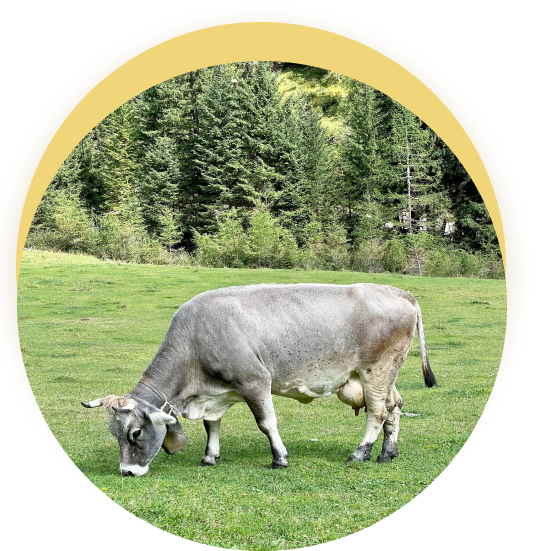
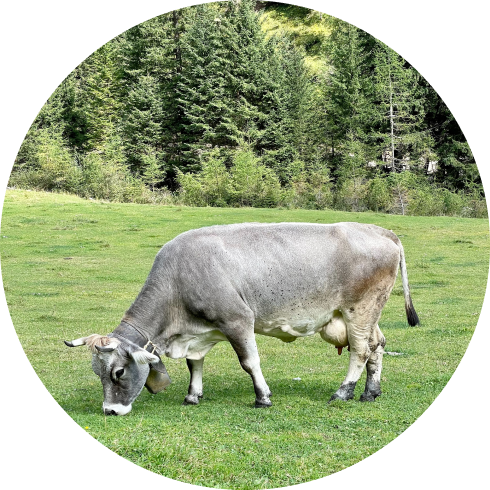
add crow png

diff --git a/src/sass/components/_about.scss b/src/sass/components/_about.scss
@@ -59,27 +59,54 @@
   }
 }
 
-.about__image {
-  display: block;
-  width: 280px;
-  height: 300px;
+.about__description-image {
+  position: relative;
   margin: 0 auto;
-  margin-bottom: 40px;
-  background-image: url(../images/about/img_mob@279.png);
-  background-size: contain;
-  background-repeat: no-repeat;
+  display: block;
+  width: 279px;
+  height: 278px;
+  background: linear-gradient(
+      0deg,
+      rgba(248, 210, 78, 0.7),
+      rgba(248, 210, 78, 0.7)
+    ),
+    #d9d9d9;
+  box-shadow: 0px 5.30813px 19.9055px rgba(153, 114, 23, 0.25);
+  border-radius: 165px;
 
-  @include mq(tablet) {
-    width: 330px;
-    margin-right: 30px;
-    background-image: url(../images/about/img_tab@330.png);
-  }
-
-  @include mq(desktop) {
-    width: 490px;
-    background-image: url(../images/about/img_desk@490.png);
+  &::before {
+    position: absolute;
+    top: 0;
+    left: 0;
+    transform: translateY(11px);
+    content: '';
+    width: 279px;
+    height: 278px;
+    background-image: url(../images/about/img_mob@279.png);
   }
 }
+
+// .about__image {
+//   display: block;
+//   width: 280px;
+//   height: 300px;
+//   margin: 0 auto;
+//   margin-bottom: 40px;
+//   background-image: url(../images/about/img_mob@279.png);
+//   background-size: contain;
+//   background-repeat: no-repeat;
+
+//   @include mq(tablet) {
+//     width: 330px;
+//     margin-right: 30px;
+//     background-image: url(../images/about/img_tab@330.png);
+//   }
+
+//   @include mq(desktop) {
+//     width: 490px;
+//     background-image: url(../images/about/img_desk@490.png);
+//   }
+// }
 
 .about__ice {
   width: 220px;
